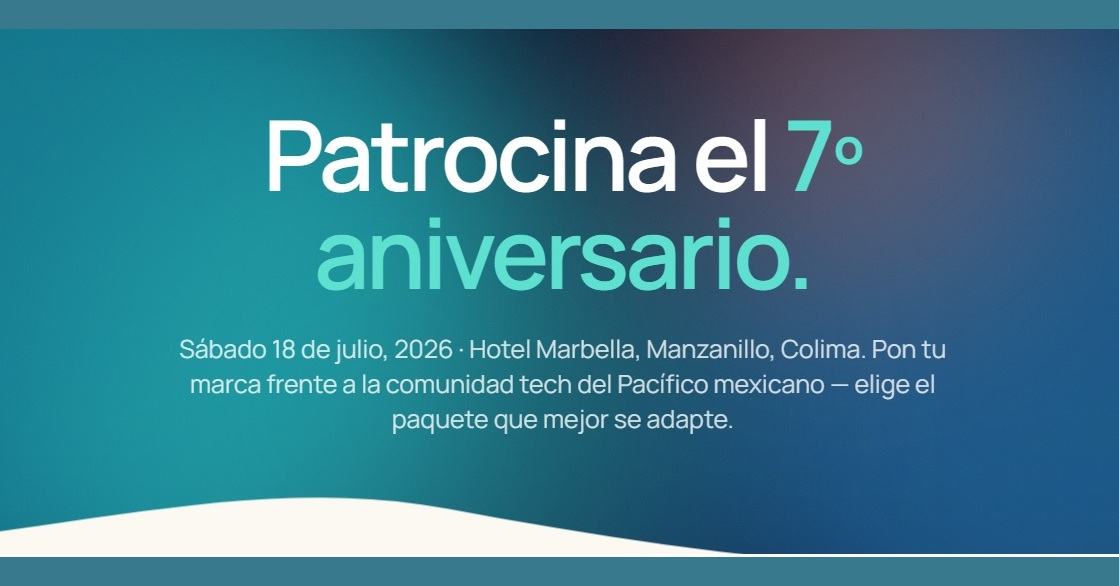
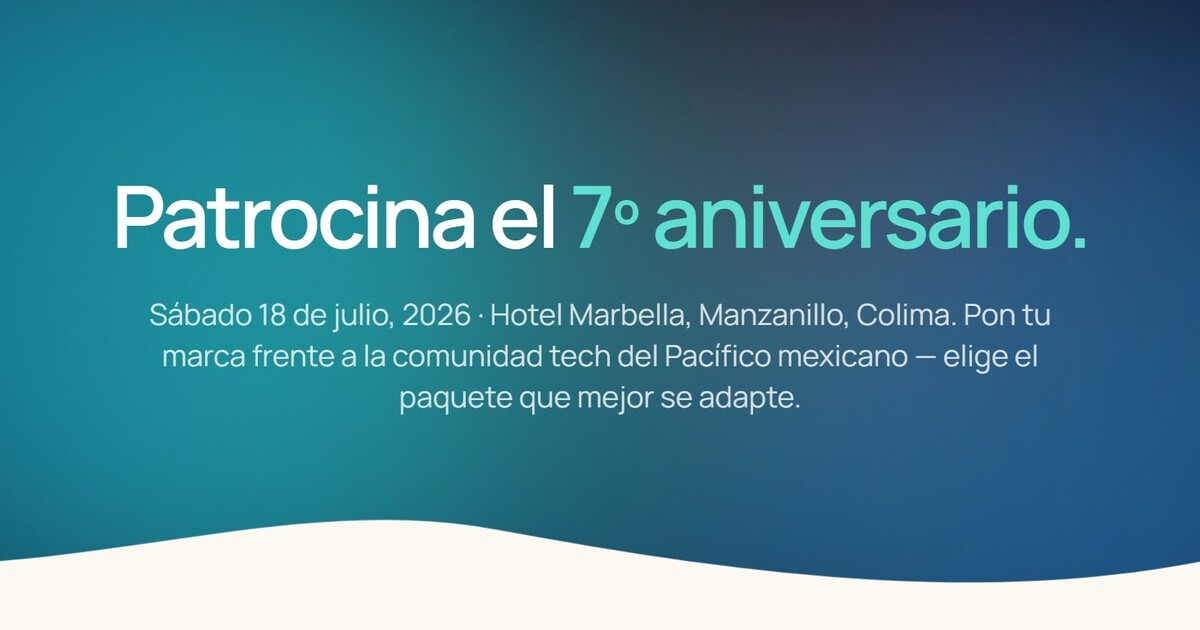
Upgrade metadata: dedicated OG images per page, 1200x630, optimal descriptions
- Add og-playasontech.jpg, og-aniversario.jpg, og-patrocinadores.jpg at 1200x630
- Point each metadata source (layout, /aniversario, /patrocinadores) to its matching image
- Switch Twitter card from summary to summary_large_image
- Extend OG descriptions to 110-160 chars
- Remove inline metadata from codigo-conducta and terminos (inherit from layout)
- Fix aniversario OG description: '7 años' not 'siete ediciones'

diff --git a/src/app/(es)/aniversario/page.tsx b/src/app/(es)/aniversario/page.tsx
@@ -56,14 +56,14 @@ export const metadata: Metadata = {
   openGraph: {
     title: "7º Aniversario · Playas on Tech",
     description:
-      "Sábado 18 de julio, 2026 · Hotel Marbella, Manzanillo. Un evento para celebrar 7 años frente al mar.",
+      "Sábado 18 de julio, 2026 · Hotel Marbella, Manzanillo. Un evento para celebrar 7 años frente al mar con charlas, networking y brindis. Cupo limitado — reserva tu lugar.",
     locale: "es_MX",
     type: "website",
     images: [
       {
         url: "https://playasontech.com/assets/metadata/og-aniversario.jpg",
-        width: 981,
-        height: 514,
+        width: 1200,
+        height: 630,
         alt: "7º Aniversario Playas on Tech",
       },
     ],
@@ -72,7 +72,7 @@ export const metadata: Metadata = {
     card: "summary_large_image",
     title: "7º Aniversario · Playas on Tech",
     description:
-      "Sábado 18 de julio, 2026 · Hotel Marbella, Manzanillo. Un evento para celebrar 7 años frente al mar.",
+      "Sábado 18 de julio, 2026 · Hotel Marbella, Manzanillo. Un evento para celebrar 7 años frente al mar con charlas, networking y brindis. Cupo limitado — reserva tu lugar.",
     images: ["https://playasontech.com/assets/metadata/og-aniversario.jpg"],
   },
 };

diff --git a/src/app/(es)/aniversario/patrocinadores/page.tsx b/src/app/(es)/aniversario/patrocinadores/page.tsx
@@ -14,14 +14,14 @@ export const metadata: Metadata = {
   openGraph: {
     title: "Patrocinadores · 7º Aniversario — Playas on Tech",
     description:
-      "Lleva tu marca frente a la comunidad tech del Pacífico mexicano. Paquetes Silver, Gold, Platinum y media partners.",
+      "Lleva tu marca frente a la comunidad tech del Pacífico mexicano. Paquetes de patrocinio Silver, Gold, Platinum y Diamond, más opciones para media partners. ¡Conoce nuestros planes!",
     locale: "es_MX",
     type: "website",
     images: [
       {
         url: "https://playasontech.com/assets/metadata/og-patrocinadores.jpg",
-        width: 1119,
-        height: 586,
+        width: 1200,
+        height: 630,
         alt: "Patrocinadores 7º Aniversario Playas on Tech",
       },
     ],
@@ -30,7 +30,7 @@ export const metadata: Metadata = {
     card: "summary_large_image",
     title: "Patrocinadores · 7º Aniversario — Playas on Tech",
     description:
-      "Lleva tu marca frente a la comunidad tech del Pacífico mexicano. Paquetes Silver, Gold, Platinum y media partners.",
+      "Lleva tu marca frente a la comunidad tech del Pacífico mexicano. Paquetes de patrocinio Silver, Gold, Platinum y Diamond, más opciones para media partners. ¡Conoce nuestros planes!",
     images: ["https://playasontech.com/assets/metadata/og-patrocinadores.jpg"],
   },
 };

diff --git a/src/app/(es)/layout.tsx b/src/app/(es)/layout.tsx
@@ -40,14 +40,14 @@ export const metadata: Metadata = {
   openGraph: {
     title: "Playas on Tech · Meetup tech frente al mar en Manzanillo",
     description:
-      "La comunidad de tecnología de Manzanillo, Colima. Cada dos meses, frente al mar. Gratis y abierta para todos.",
+      "La comunidad de tecnología de Manzanillo, Colima. Meetups gratuitos cada dos meses frente al mar. Gratis y abierta para todos los developers, diseñadores y founders del Pacífico mexicano.",
     locale: "es_MX",
     type: "website",
     images: [
       {
         url: "https://playasontech.com/assets/metadata/og-playasontech.jpg",
-        width: 1054,
-        height: 552,
+        width: 1200,
+        height: 630,
         alt: "Playas on Tech — comunidad tech frente al mar",
       },
     ],
@@ -56,7 +56,7 @@ export const metadata: Metadata = {
     card: "summary_large_image",
     title: "Playas on Tech · Meetup tech frente al mar en Manzanillo",
     description:
-      "La comunidad de tecnología de Manzanillo, Colima. Cada dos meses, frente al mar. Gratis y abierta para todos.",
+      "La comunidad de tecnología de Manzanillo, Colima. Meetups gratuitos cada dos meses frente al mar. Gratis y abierta para todos los developers, diseñadores y founders del Pacífico mexicano.",
     images: ["https://playasontech.com/assets/metadata/og-playasontech.jpg"],
   },
 };

diff --git a/src/app/en/aniversario/page.tsx b/src/app/en/aniversario/page.tsx
@@ -17,14 +17,14 @@ export const metadata: Metadata = {
   openGraph: {
     title: "7th Anniversary · Playas on Tech",
     description:
-      "Saturday, July 18, 2026 · Hotel Marbella, Manzanillo. An event to celebrate 7 years by the sea.",
+      "Saturday, July 18, 2026 · Hotel Marbella, Manzanillo. An event to celebrate 7 years by the sea with talks, networking, and a toast. Limited seats — reserve yours.",
     locale: "en_US",
     type: "website",
     images: [
       {
         url: "https://playasontech.com/assets/metadata/og-aniversario.jpg",
-        width: 981,
-        height: 514,
+        width: 1200,
+        height: 630,
         alt: "7th Anniversary Playas on Tech",
       },
     ],
@@ -33,7 +33,7 @@ export const metadata: Metadata = {
     card: "summary_large_image",
     title: "7th Anniversary · Playas on Tech",
     description:
-      "Saturday, July 18, 2026 · Hotel Marbella, Manzanillo. An event to celebrate 7 years by the sea.",
+      "Saturday, July 18, 2026 · Hotel Marbella, Manzanillo. An event to celebrate 7 years by the sea with talks, networking, and a toast. Limited seats — reserve yours.",
     images: ["https://playasontech.com/assets/metadata/og-aniversario.jpg"],
   },
 };

diff --git a/src/app/en/aniversario/sponsors/page.tsx b/src/app/en/aniversario/sponsors/page.tsx
@@ -14,14 +14,14 @@ export const metadata: Metadata = {
   openGraph: {
     title: "Sponsors · 7th Anniversary — Playas on Tech",
     description:
-      "Bring your brand in front of the Mexican Pacific tech community. Silver, Gold, Platinum and media partner packages.",
+      "Bring your brand in front of the Mexican Pacific tech community. Silver, Gold, Platinum, and Diamond sponsorship packages, plus media partner options. Check out our plans!",
     locale: "en_US",
     type: "website",
     images: [
       {
         url: "https://playasontech.com/assets/metadata/og-patrocinadores.jpg",
-        width: 1119,
-        height: 586,
+        width: 1200,
+        height: 630,
         alt: "Sponsors 7th Anniversary Playas on Tech",
       },
     ],
@@ -30,7 +30,7 @@ export const metadata: Metadata = {
     card: "summary_large_image",
     title: "Sponsors · 7th Anniversary — Playas on Tech",
     description:
-      "Bring your brand in front of the Mexican Pacific tech community. Silver, Gold, Platinum and media partner packages.",
+      "Bring your brand in front of the Mexican Pacific tech community. Silver, Gold, Platinum, and Diamond sponsorship packages, plus media partner options. Check out our plans!",
     images: ["https://playasontech.com/assets/metadata/og-patrocinadores.jpg"],
   },
 };

diff --git a/src/app/en/layout.tsx b/src/app/en/layout.tsx
@@ -15,14 +15,14 @@ export const metadata: Metadata = {
   icons: { icon: "/assets/app-icon.webp" },
   openGraph: {
     title: "Playas on Tech — The tech community by the sea",
-    description: "The tech community of Manzanillo, Colima. Every two months, by the sea.",
+    description: "The tech community of Manzanillo, Colima. Free meetups every two months by the sea for developers, designers, and founders. Open and welcoming to all.",
     locale: "en_US",
     type: "website",
     images: [
       {
         url: "https://playasontech.com/assets/metadata/og-playasontech.jpg",
-        width: 1054,
-        height: 552,
+        width: 1200,
+        height: 630,
         alt: "Playas on Tech — tech community by the sea",
       },
     ],
@@ -30,7 +30,7 @@ export const metadata: Metadata = {
   twitter: {
     card: "summary_large_image",
     title: "Playas on Tech — The tech community by the sea",
-    description: "The tech community of Manzanillo, Colima. Every two months, by the sea.",
+    description: "The tech community of Manzanillo, Colima. Free meetups every two months by the sea for developers, designers, and founders. Open and welcoming to all.",
     images: ["https://playasontech.com/assets/metadata/og-playasontech.jpg"],
   },
 };